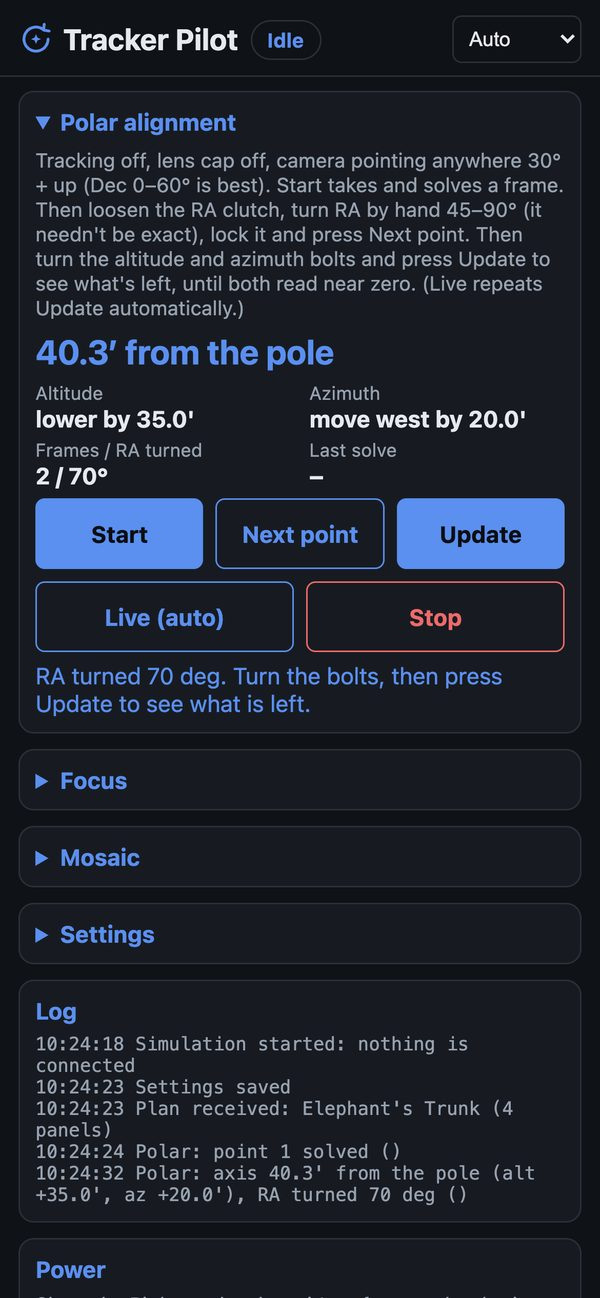
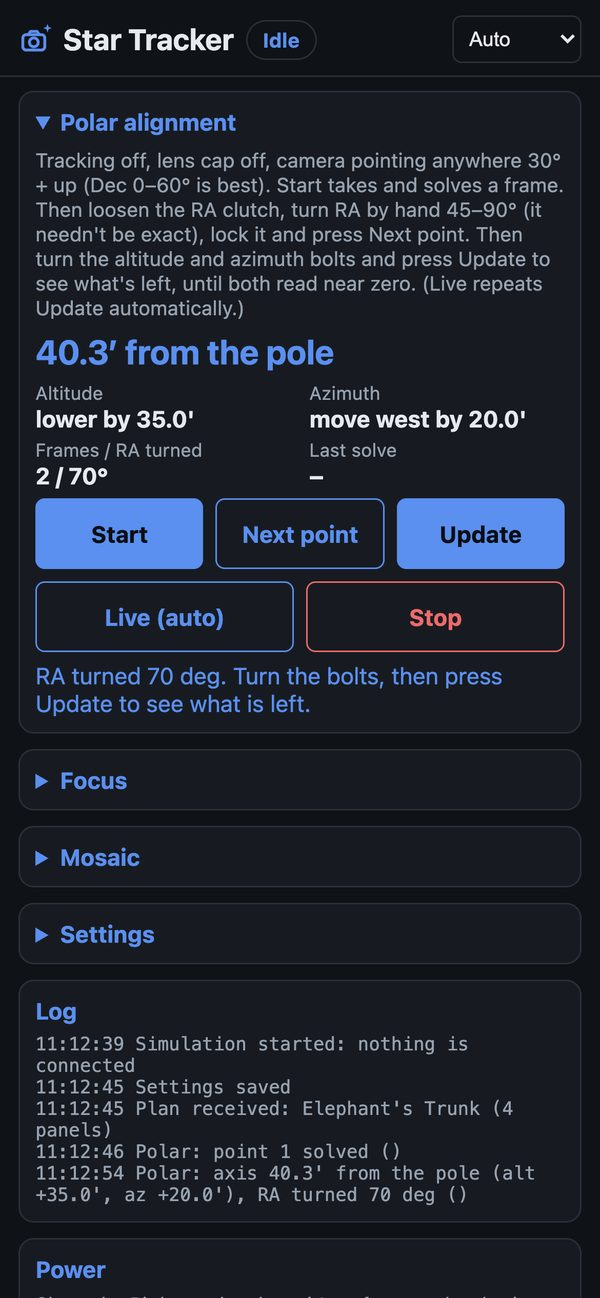
Star Tracker Controller: new screenshots, renamed repo links, install line and camera check

diff --git a/star-tracker-controller/index.html b/star-tracker-controller/index.html
@@ -164,7 +164,7 @@ table.spec { width: 100%; border-collapse: collapse; font-size: 16px; margin-top
 <header>
   <div class="wrap">
     <a class="brand" href="#"><svg viewBox="0 0 32 32" aria-hidden="true"><rect x="4" y="12" width="20" height="14" rx="3" fill="none" stroke="currentColor" stroke-width="2.6" stroke-linecap="round" stroke-linejoin="round"/><circle cx="14" cy="19" r="4" fill="none" stroke="currentColor" stroke-width="2.6" stroke-linecap="round" stroke-linejoin="round"/><path d="M9 12l2-3h6l2 3" fill="none" stroke="currentColor" stroke-width="2.6" stroke-linecap="round" stroke-linejoin="round"/><path d="M26.5 2.2l1.06 2.74 2.74 1.06-2.74 1.06-1.06 2.74-1.06-2.74-2.74-1.06 2.74-1.06z" fill="currentColor"/></svg>Star Tracker Controller</a>
-    <nav><a href="#why">Why</a><a href="#works">Works with</a><a href="#start">Getting started</a><a href="https://dgsgc.github.io/">More tools</a><a href="https://github.com/dgsgc/tracker-pilot">GitHub</a></nav>
+    <nav><a href="#why">Why</a><a href="#works">Works with</a><a href="#start">Getting started</a><a href="https://dgsgc.github.io/">More tools</a><a href="https://github.com/dgsgc/star-tracker-controller">GitHub</a></nav>
   </div>
 </header>
 
@@ -174,7 +174,7 @@ table.spec { width: 100%; border-collapse: collapse; font-size: 16px; margin-top
   <p class="lead">A small Raspberry Pi at the mount runs your camera, dithers between frames through the tracker's ST-4 port, plate-solves for polar alignment, and points you at each panel of a mosaic. You run it from your phone. No laptop in the field.</p>
   <div class="dl">
     <a class="btn primary" href="#start">Get started</a>
-    <a class="btn" href="https://github.com/dgsgc/tracker-pilot">See it on GitHub</a>
+    <a class="btn" href="https://github.com/dgsgc/star-tracker-controller">See it on GitHub</a>
   </div>
   <p class="small">Free and open source (MIT). About £35 of parts with a Pi Zero 2 W. An early release: built from a working rig, and reports from other mounts and cameras are welcome.</p>
   <div class="diagram"><svg viewBox="0 0 900 300" role="img" aria-label="Your phone talks to a Raspberry Pi over WiFi; the Pi drives the tracker through its ST-4 port and the camera over USB, with an optional DEC motor">
@@ -224,8 +224,8 @@ table.spec { width: 100%; border-collapse: collapse; font-size: 16px; margin-top
     <h2>What it works with</h2>
     <table class="spec">
       <tr><td>Mounts</td><td>Any tracker with an ST-4 guide port: Sky-Watcher Star Adventurer 2i and GTi, iOptron SkyGuider Pro and similar.</td></tr>
-      <tr><td>Cameras</td><td>Canon EOS bodies from about 2008 on, over USB: with the dial on <b>B</b> (60D, 70D, 80D, 90D, 7D, 6D, 5D Mark II and later, and the like), or on <b>M</b> for bodies without a B position (Rebel-line models such as the 600D, 700D and 800D, the 77D, the M series and R bodies without B), where Star Tracker Controller sets the Bulb shutter speed itself. Other makes (Nikon, Sony and more) can be added, because the camera library underneath already supports them: see the <a href="https://github.com/dgsgc/tracker-pilot/blob/main/docs/cameras.md">camera research notes</a>.</td></tr>
-      <tr><td>Tested</td><td>EOS 60D, including focus with an STM lens. The M-dial way is new and not yet tested on a body without B: reports especially welcome. See the <a href="https://github.com/dgsgc/tracker-pilot#tested-cameras">tested cameras</a> list. Have another camera? A two-minute check on the bench tells you what works; please <a href="https://github.com/dgsgc/tracker-pilot/issues/new?template=camera-report.yml">send in a camera report</a>.</td></tr>
+      <tr><td>Cameras</td><td>Canon EOS bodies from about 2008 on, over USB: with the dial on <b>B</b> (60D, 70D, 80D, 90D, 7D, 6D, 5D Mark II and later, and the like), or on <b>M</b> for bodies without a B position (Rebel-line models such as the 600D, 700D and 800D, the 77D, the M series and R bodies without B), where Star Tracker Controller sets the Bulb shutter speed itself. Other makes (Nikon, Sony and more) can be added, because the camera library underneath already supports them: see the <a href="https://github.com/dgsgc/star-tracker-controller/blob/main/docs/cameras.md">camera research notes</a>.</td></tr>
+      <tr><td>Tested</td><td>EOS 60D, including focus with an STM lens. The M-dial way is new and not yet tested on a body without B: reports especially welcome. See the <a href="https://github.com/dgsgc/star-tracker-controller#tested-cameras">tested cameras</a> list. Have another camera? A two-minute check on the bench tells you what works; please <a href="https://github.com/dgsgc/star-tracker-controller/issues/new?template=camera-report.yml">send in a camera report</a>.</td></tr>
       <tr><td>Lenses</td><td>For plate solving, about 24–85 mm on APS-C or 35–135 mm on full frame.</td></tr>
       <tr><td>Computer</td><td>Raspberry Pi Zero 2 W, or a Pi 3, 4 or 5, on Raspberry Pi OS Lite.</td></tr>
     </table>
@@ -242,14 +242,18 @@ table.spec { width: 100%; border-collapse: collapse; font-size: 16px; margin-top
   <div class="wrap">
     <h2>Getting started</h2>
     <ol class="steps">
-      <li><h3>Make the ST-4 lead</h3><p>Two PC817 optocouplers and resistors between the Pi and an ST-4 cable, so the Pi and the mount share nothing electrically. <a href="https://github.com/dgsgc/tracker-pilot/blob/main/docs/hardware.md">Parts list and wiring</a>.</p></li>
+      <li><h3>Make the ST-4 lead</h3><p>Two PC817 optocouplers and resistors between the Pi and an ST-4 cable, so the Pi and the mount share nothing electrically. <a href="https://github.com/dgsgc/star-tracker-controller/blob/main/docs/hardware.md">Parts list and wiring</a>.</p></li>
       <li><h3>Install it on the Pi</h3><p>Put Raspberry Pi OS Lite (64-bit) on a card with your home WiFi and SSH, then run the one-line installer below.</p></li>
       <li><h3>Set it up from your phone</h3><p>Open <b>http://tracker.local</b> (your Pi's name) and enter the focal length, the camera's pixel size and width, the guide rate, the DEC drive and your location.</p></li>
       <li><h3>First night</h3><p>Camera dial on <b>B</b> (or <b>M</b> if it has no B), lens on <b>MF</b>. Polar align with the Polar alignment card, focus, then press <b>Start</b>, or load a mosaic.</p></li>
     </ol>
-    <div class="cmd"><pre><code id="cmd">curl -fsSL https://raw.githubusercontent.com/dgsgc/tracker-pilot/main/install.sh | sh</code></pre><button class="copy" type="button" id="copy">Copy</button></div>
-    <p class="small" style="margin-top:22px">Before the first night, check your camera on the bench: with Star Tracker Controller stopped, run <code>~/tracker-pilot/venv/bin/python ~/tracker-pilot/tools/camera_check.py</code> on the Pi. It tells you what works, ready to paste into a <a href="https://github.com/dgsgc/tracker-pilot/issues/new?template=camera-report.yml">camera report</a>.</p>
-    <p class="small">Running the installer again updates it and keeps your settings. Want to try it first? It has a simulator with a fake camera, mount and stars: see <a href="https://github.com/dgsgc/tracker-pilot#try-it-without-hardware">Try it without hardware</a>.</p>
+    <div class="cmd"><pre><code id="cmd">curl -fsSL https://raw.githubusercontent.com/dgsgc/star-tracker-controller/main/install.sh | sh</code></pre><button class="copy" type="button" id="copy">Copy</button></div>
+    <p class="small" style="margin-top:22px">Before the first night, check your camera on the bench. On the Pi, run these three lines (the first pauses Star Tracker Controller, the last starts it again):</p>
+    <pre><code>sudo systemctl stop star-tracker-controller
+~/star-tracker-controller/venv/bin/python ~/star-tracker-controller/tools/camera_check.py
+sudo systemctl start star-tracker-controller</code></pre>
+    <p class="small">It tells you what works, ready to paste into a <a href="https://github.com/dgsgc/star-tracker-controller/issues/new?template=camera-report.yml">camera report</a>. On a camera that isn't a Canon, add <code>--try-bulb</code> to the middle line to try one real 2-second exposure.</p>
+    <p class="small">Running the installer again updates it and keeps your settings. Want to try it first? It has a simulator with a fake camera, mount and stars: see <a href="https://github.com/dgsgc/star-tracker-controller#try-it-without-hardware">Try it without hardware</a>.</p>
   </div>
 </section>
 </main>
@@ -258,7 +262,7 @@ table.spec { width: 100%; border-collapse: collapse; font-size: 16px; margin-top
   <div class="wrap">
     <p>Star Tracker Controller is free and open source (MIT). It isn't affiliated with Sky-Watcher, iOptron or Canon; their names only say what it works with. Plate solving by cedar-solve; star data from the Hipparcos catalogue (ESA).</p>
     <p>Also from the same set: <a href="https://dgsgc.github.io/astro-rig-monitor/">Astro Rig Monitor</a> and <a href="https://dgsgc.github.io/asiair-mosaic-planner/">ASIAIR Mosaic Planner</a>. <a href="https://dgsgc.github.io/">All the tools</a></p>
-    <p><a href="https://github.com/dgsgc/tracker-pilot">Source on GitHub</a> · <a href="https://github.com/dgsgc/tracker-pilot/blob/main/docs/hardware.md">Hardware</a> · <a href="https://github.com/dgsgc/tracker-pilot/issues">Questions and problems</a></p>
+    <p><a href="https://github.com/dgsgc/star-tracker-controller">Source on GitHub</a> · <a href="https://github.com/dgsgc/star-tracker-controller/blob/main/docs/hardware.md">Hardware</a> · <a href="https://github.com/dgsgc/star-tracker-controller/issues">Questions and problems</a></p>
   </div>
 </footer>
 

diff --git a/index.html b/index.html
@@ -202,12 +202,12 @@ footer a { color: var(--text2); }
       </div>
     </article>
     <article class="tool tp">
-      <a class="pic art phones" href="https://dgsgc.github.io/star-tracker-controller/" aria-label="Star Tracker Controller"><img src="img/tracker-pilot-run.jpg" width="600" height="1298" alt="Star Tracker Controller on a phone: a run in progress with dithers" loading="lazy"><img src="img/tracker-pilot-polar.jpg" width="600" height="1298" alt="Star Tracker Controller on a phone: polar alignment" loading="lazy"></a>
+      <a class="pic art phones" href="https://dgsgc.github.io/star-tracker-controller/" aria-label="Star Tracker Controller"><img src="img/star-tracker-run.jpg" width="600" height="1298" alt="Star Tracker Controller on a phone: a run in progress with dithers" loading="lazy"><img src="img/star-tracker-polar.jpg" width="600" height="1298" alt="Star Tracker Controller on a phone: polar alignment" loading="lazy"></a>
       <div class="body">
         <h3><svg viewBox="0 0 32 32" aria-hidden="true"><rect x="4" y="12" width="20" height="14" rx="3" fill="none" stroke="#5b8ff0" stroke-width="2.6" stroke-linecap="round" stroke-linejoin="round"/><circle cx="14" cy="19" r="4" fill="none" stroke="#5b8ff0" stroke-width="2.6" stroke-linecap="round" stroke-linejoin="round"/><path d="M9 12l2-3h6l2 3" fill="none" stroke="#5b8ff0" stroke-width="2.6" stroke-linecap="round" stroke-linejoin="round"/><path d="M26.5 2.2l1.06 2.74 2.74 1.06-2.74 1.06-1.06 2.74-1.06-2.74-2.74-1.06 2.74-1.06z" fill="#5b8ff0"/></svg>Star Tracker Controller</h3>
         <p class="for">At the mount · Raspberry Pi, run from your phone</p>
         <p class="what">For star trackers with an ST-4 port: Bulb runs with your camera, dithering, plate-solved polar alignment and mosaic push-to, with no laptop in the field. An extra rig next to your ASIAIRs, watched by the monitor.</p>
-        <div class="btns"><a class="btn primary" href="https://dgsgc.github.io/star-tracker-controller/">See the controller</a><a class="btn" href="https://github.com/dgsgc/tracker-pilot">GitHub</a></div>
+        <div class="btns"><a class="btn primary" href="https://dgsgc.github.io/star-tracker-controller/">See the controller</a><a class="btn" href="https://github.com/dgsgc/star-tracker-controller">GitHub</a></div>
       </div>
     </article>
   </div>
@@ -233,7 +233,7 @@ footer a { color: var(--text2); }
       <div class="point"><h3>Free, with nothing to sign up for</h3><p>No accounts and no cloud service. Your settings stay on your computer, your rigs and targets in your browser or the app.</p></div>
       <div class="point"><h3>ASIAIR, N.I.N.A. and trackers</h3><p>The monitor works with ASIAIRs and with PHD2, on its own or driven by N.I.N.A., including remote observatories. The planner is for ASIAIR rigs, and its mosaics also go to Star Tracker Controller. Star Tracker Controller runs ST-4 star trackers.</p></div>
     </div>
-    <p class="small" style="margin-top:22px">Questions, ideas or problems: open an issue on <a href="https://github.com/dgsgc/astro-rig-monitor/issues">Astro Rig Monitor</a>, <a href="https://github.com/dgsgc/asiair-mosaic-planner/issues">ASIAIR Mosaic Planner</a> or <a href="https://github.com/dgsgc/tracker-pilot/issues">Star Tracker Controller</a> on GitHub.</p>
+    <p class="small" style="margin-top:22px">Questions, ideas or problems: open an issue on <a href="https://github.com/dgsgc/astro-rig-monitor/issues">Astro Rig Monitor</a>, <a href="https://github.com/dgsgc/asiair-mosaic-planner/issues">ASIAIR Mosaic Planner</a> or <a href="https://github.com/dgsgc/star-tracker-controller/issues">Star Tracker Controller</a> on GitHub.</p>
   </div>
 </section>
 </main>
@@ -241,7 +241,7 @@ footer a { color: var(--text2); }
 <footer>
   <div class="wrap">
     <p>Free, with the source on GitHub. These tools aren't made by or connected with ZWO or the N.I.N.A. and PHD2 projects.</p>
-    <p><a href="https://github.com/dgsgc/astro-rig-monitor">Astro Rig Monitor on GitHub</a> · <a href="https://github.com/dgsgc/asiair-mosaic-planner">ASIAIR Mosaic Planner on GitHub</a> · <a href="https://github.com/dgsgc/tracker-pilot">Star Tracker Controller on GitHub</a></p>
+    <p><a href="https://github.com/dgsgc/astro-rig-monitor">Astro Rig Monitor on GitHub</a> · <a href="https://github.com/dgsgc/asiair-mosaic-planner">ASIAIR Mosaic Planner on GitHub</a> · <a href="https://github.com/dgsgc/star-tracker-controller">Star Tracker Controller on GitHub</a></p>
   </div>
 </footer>
 </body>
